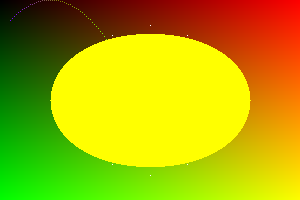
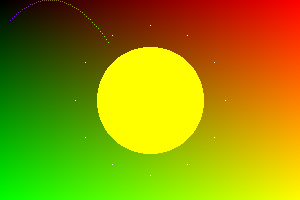
Chapter 5: Ray-Sphere Intersections - sphere ray trace

Changed region(s): [[0.15, 0.15, 0.84, 0.84]]

diff --git a/demo/src/main.rs b/demo/src/main.rs
@@ -70,32 +70,29 @@ fn example<C: Canvas<Color>>(canvas: &mut C) {
 }
 
 fn ray_trace_silhouette<C: Canvas<Color>>(canvas: &mut C) {
-    let fovX = TAU / 4.; // 90°
+    let fov_y = TAU / 4.; // 90°
+    let fov_x = apply_ratio(fov_y, canvas.ratio());
     let sphere = Sphere::new_transformed(Matrix4x4::translation(0., 0., -2.));
     let color = (1., 1., 0., 1.).into();
     let ray = ray!(Point::origin(), (0., 0., 1.));
     for y in 0..canvas.height() {
+        let y_norm = y as f32 / canvas.height() as f32 - 0.5;
         for x in 0..canvas.width() {
+            let x_norm = x as f32 / canvas.width() as f32 - 0.5;
             let tube = Matrix4x4::identity()
-                .pre_rotation_x(
-                    fovX * (x as f32 - canvas.width() as f32 / 2.) / canvas.width() as f32,
-                )
-                .pre_rotation_y(
-                    fovX * (y as f32 - canvas.height() as f32 / 2.) / canvas.height() as f32,
-                );
+                .pre_rotation_x(apply_ratio(fov_x, x_norm))
+                .pre_rotation_y(apply_ratio(fov_y, y_norm));
             let ray2 = tube * ray;
 
-            //println!("{:?}", ray2);
             if !sphere.intersect(ray2).is_empty() {
                 canvas.write_color(x, y, color);
             }
-            // let color = (
-            //     (x as f32) / (canvas.width() as f32),
-            //     (y as f32) / (canvas.height() as f32),
-            //     0.0,
-            //     1.0,
-            // )
-            //     .into();
         }
     }
+}
+
+fn apply_ratio(angle_radians: f32, ratio: f32) -> f32 {
+    let a = (angle_radians / 2.).tan().recip();
+    let a2 = a * ratio;
+    a2.recip().atan() * 2.
 }

diff --git a/demo/src/image_buffer_canvas.rs b/demo/src/image_buffer_canvas.rs
@@ -18,6 +18,10 @@ impl Canvas<Color> for ImageBufferCanvas {
         self.height
     }
 
+    fn ratio(&self) -> f32 {
+        self.width as f32 / self.height as f32
+    }
+
     fn save_png<Q>(&self, path: Q)
     where
         Q: AsRef<Path>,

diff --git a/demo/src/canvas.rs b/demo/src/canvas.rs
@@ -4,6 +4,8 @@ pub trait Canvas<C> {
     fn width(&self) -> u32;
     fn height(&self) -> u32;
 
+    fn ratio(&self) -> f32;
+
     fn save_png<Q>(&self, path: Q)
     where
         Q: AsRef<Path>;
